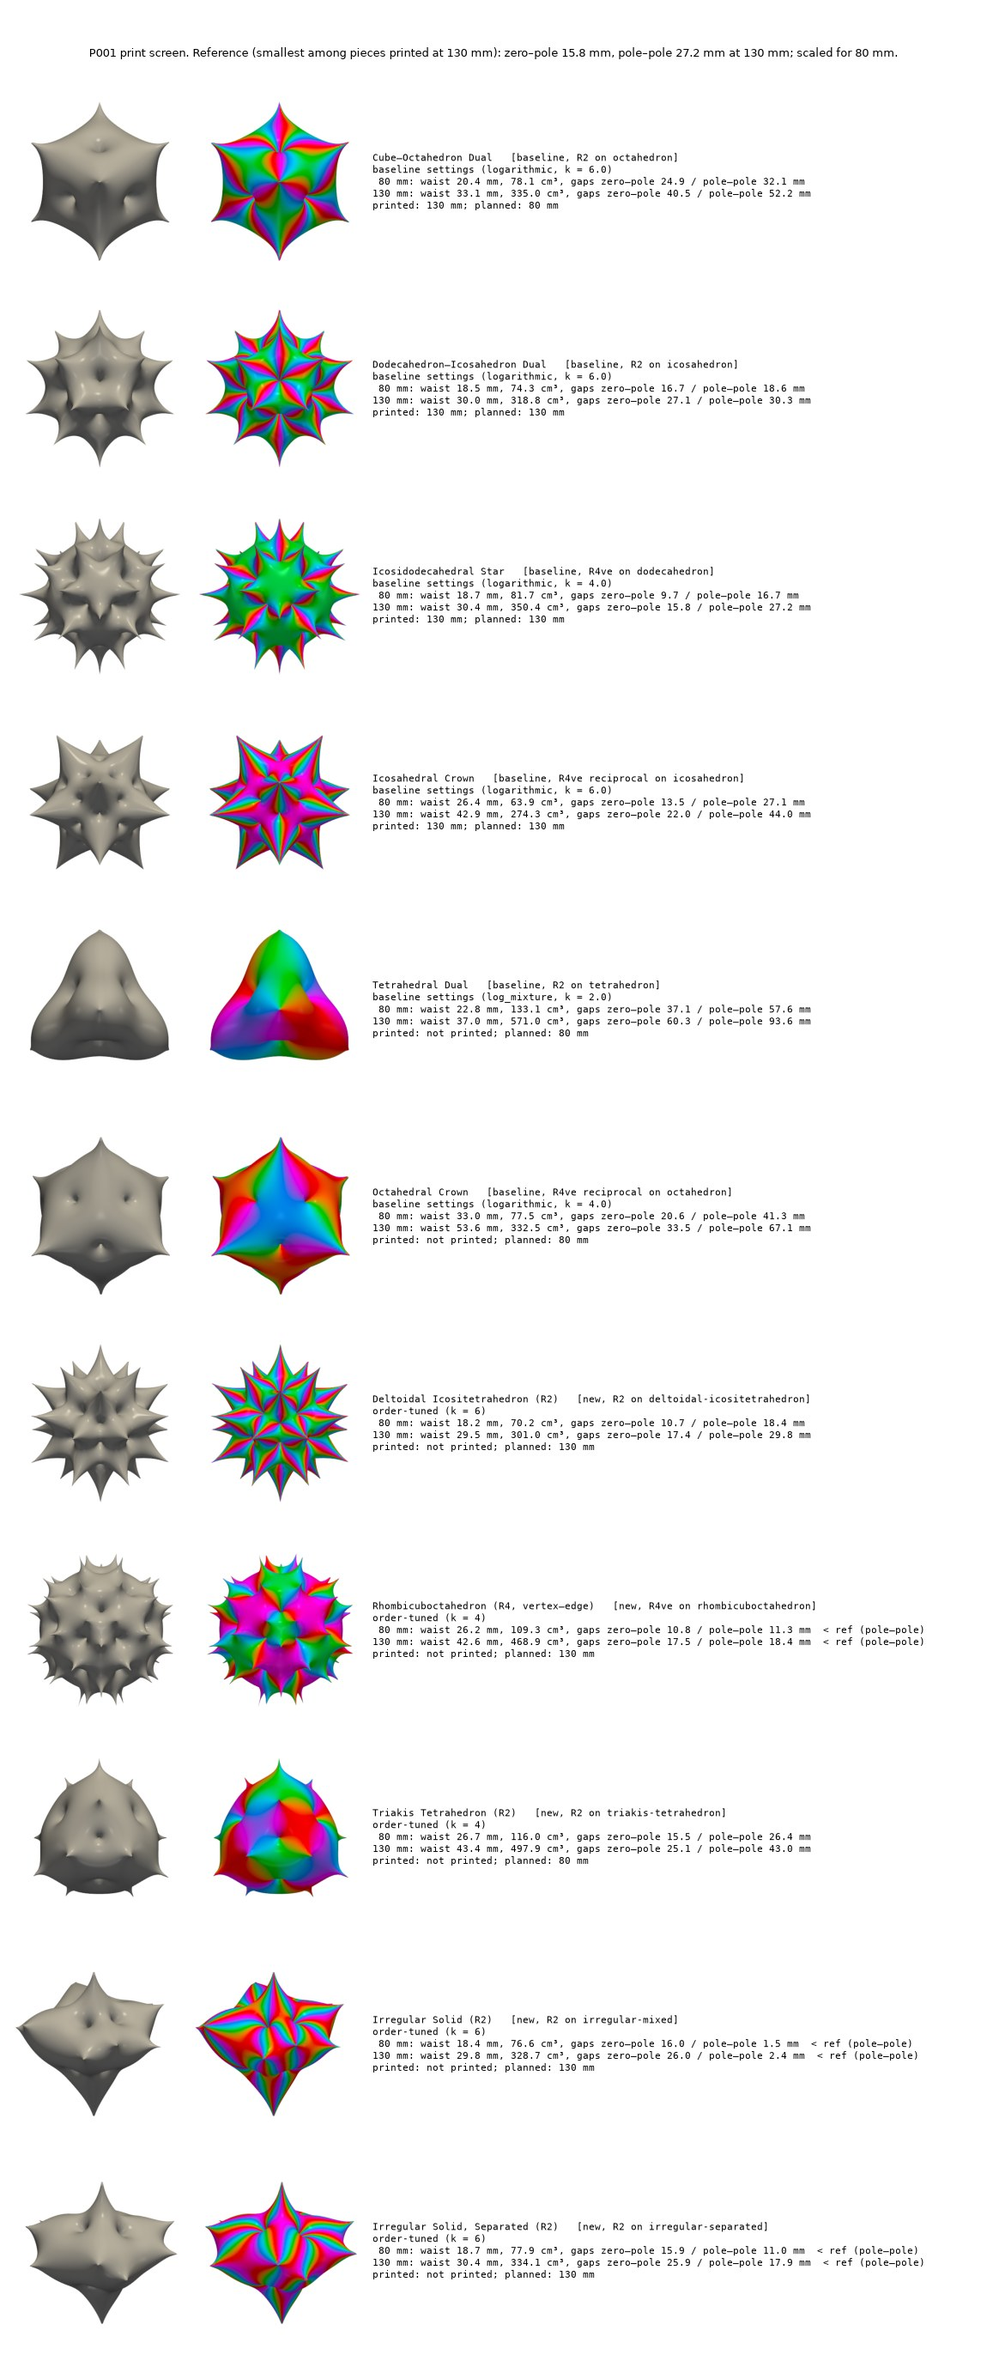
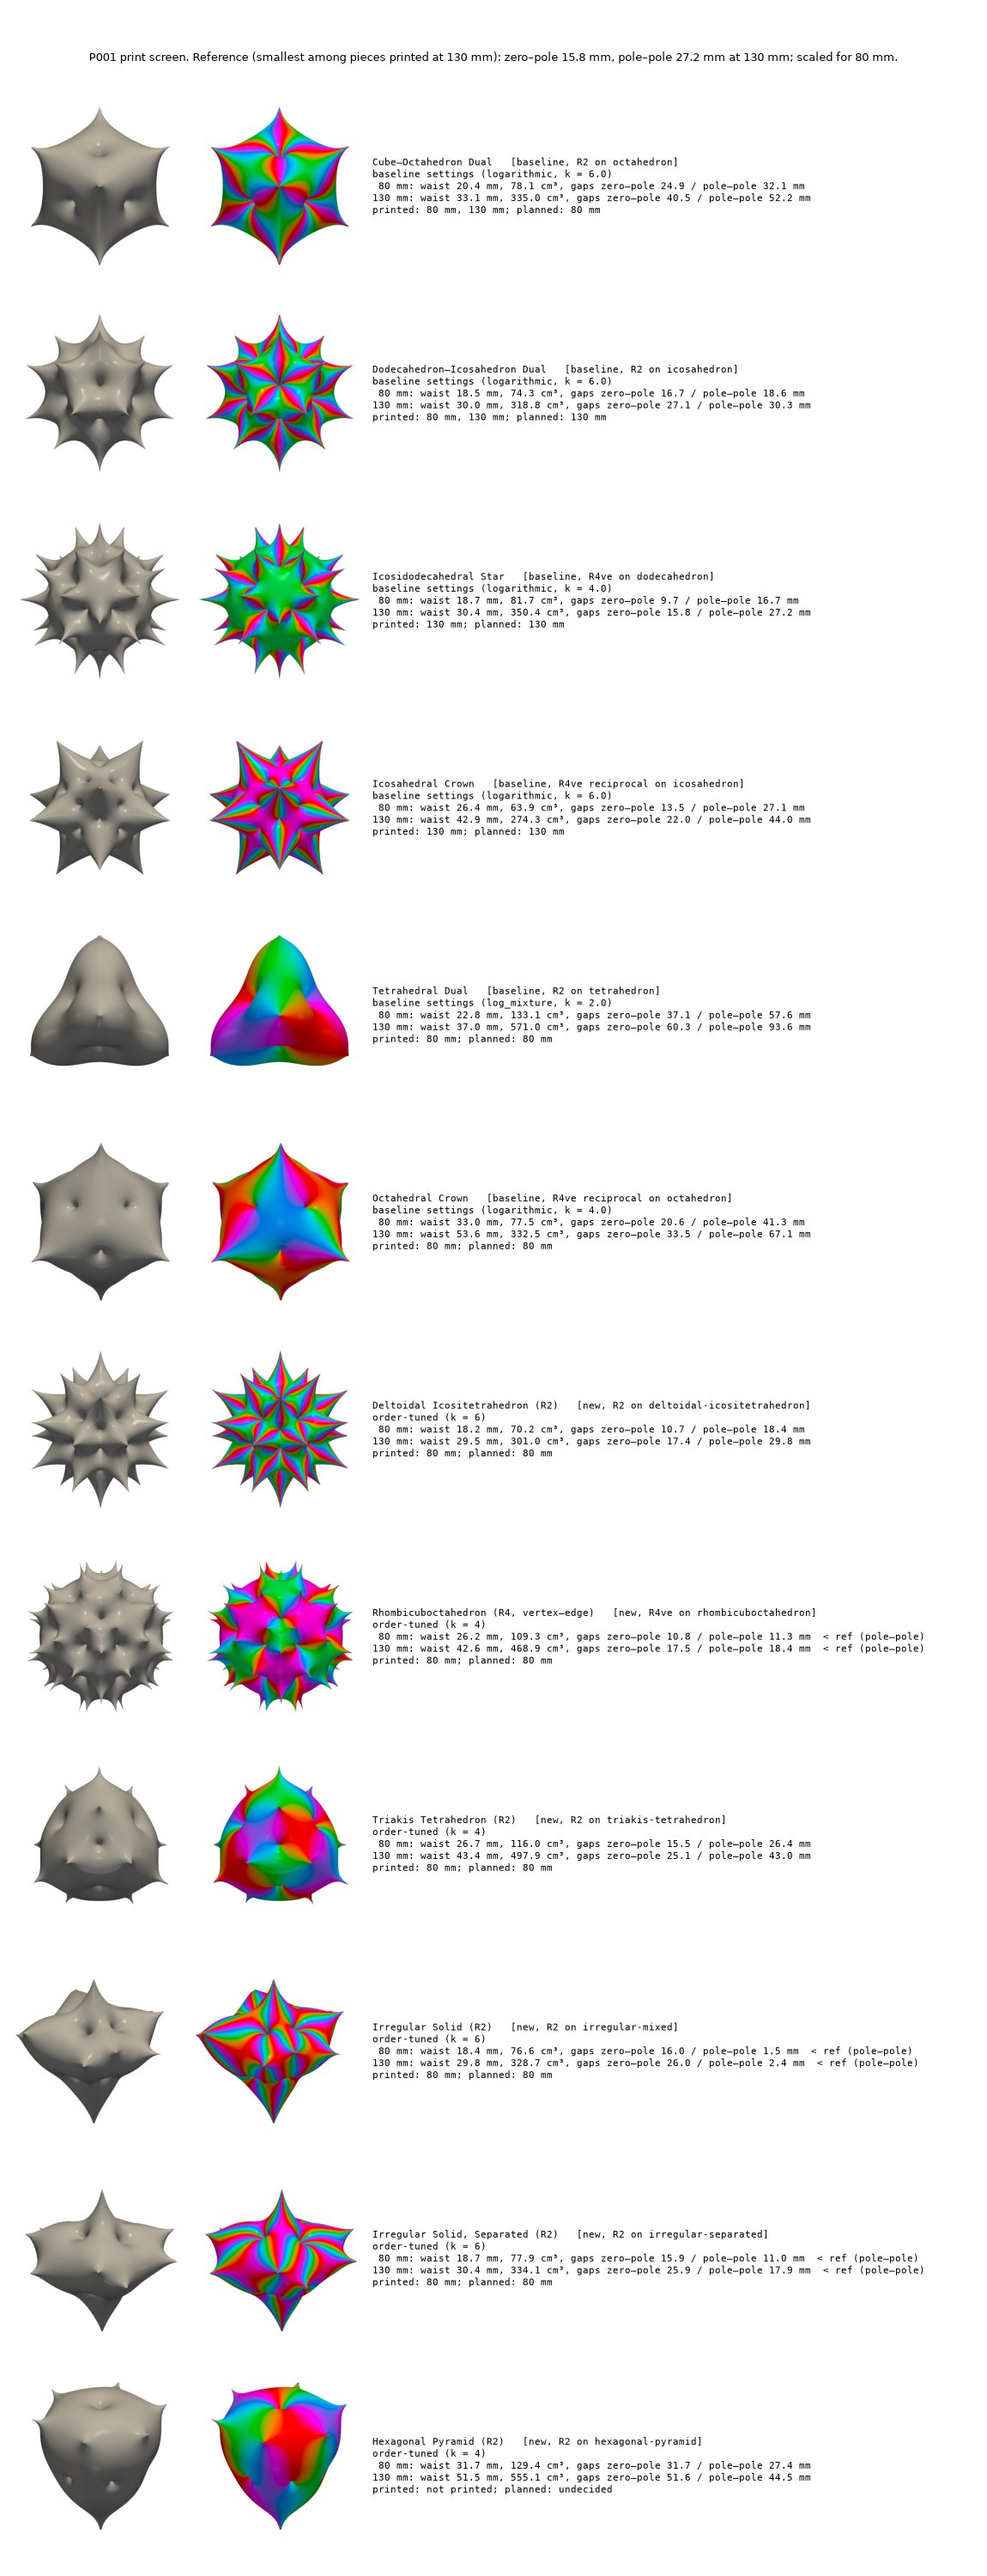
P001: screen the hexagonal pyramid
Claude-Session: https://claude.ai/code/session_01QNebQPZ4GBj3ZAru4Lb3oM

diff --git a/catalog/CHECKLIST.md b/catalog/CHECKLIST.md
@@ -16,6 +16,6 @@ edit by hand: change the catalog and regenerate.
 | Triakis Tetrahedron (R2) | new | listed | yes | yes/yes | exported | yes/yes | 80 mm | 80 mm | [link](https://www.printables.com/model/1868361-triakis-tetrahedron) | done |
 | Irregular Solid (R2) | new | listed | yes | yes/yes | exported | yes/yes | 80 mm | 80 mm | [link](https://www.printables.com/model/1873990-irregular-polyhedron-ornament-double-spike) | done |
 | Irregular Solid, Separated (R2) | new | listed | yes | yes/yes | exported | yes/yes | 80 mm | 80 mm | [link](https://www.printables.com/model/1870554-irregular-polyhedron-ornament) | done |
-| Hexagonal Pyramid (R2) | new | exported | – | yes/yes | exported | yes/yes | – | – | – | screen at 80 and 130 mm (B1) |
+| Hexagonal Pyramid (R2) | new | exported | yes | yes/yes | exported | yes/yes | – | – | – | choose print size from the screen |
 
 1 of 12 pieces have an open action.
